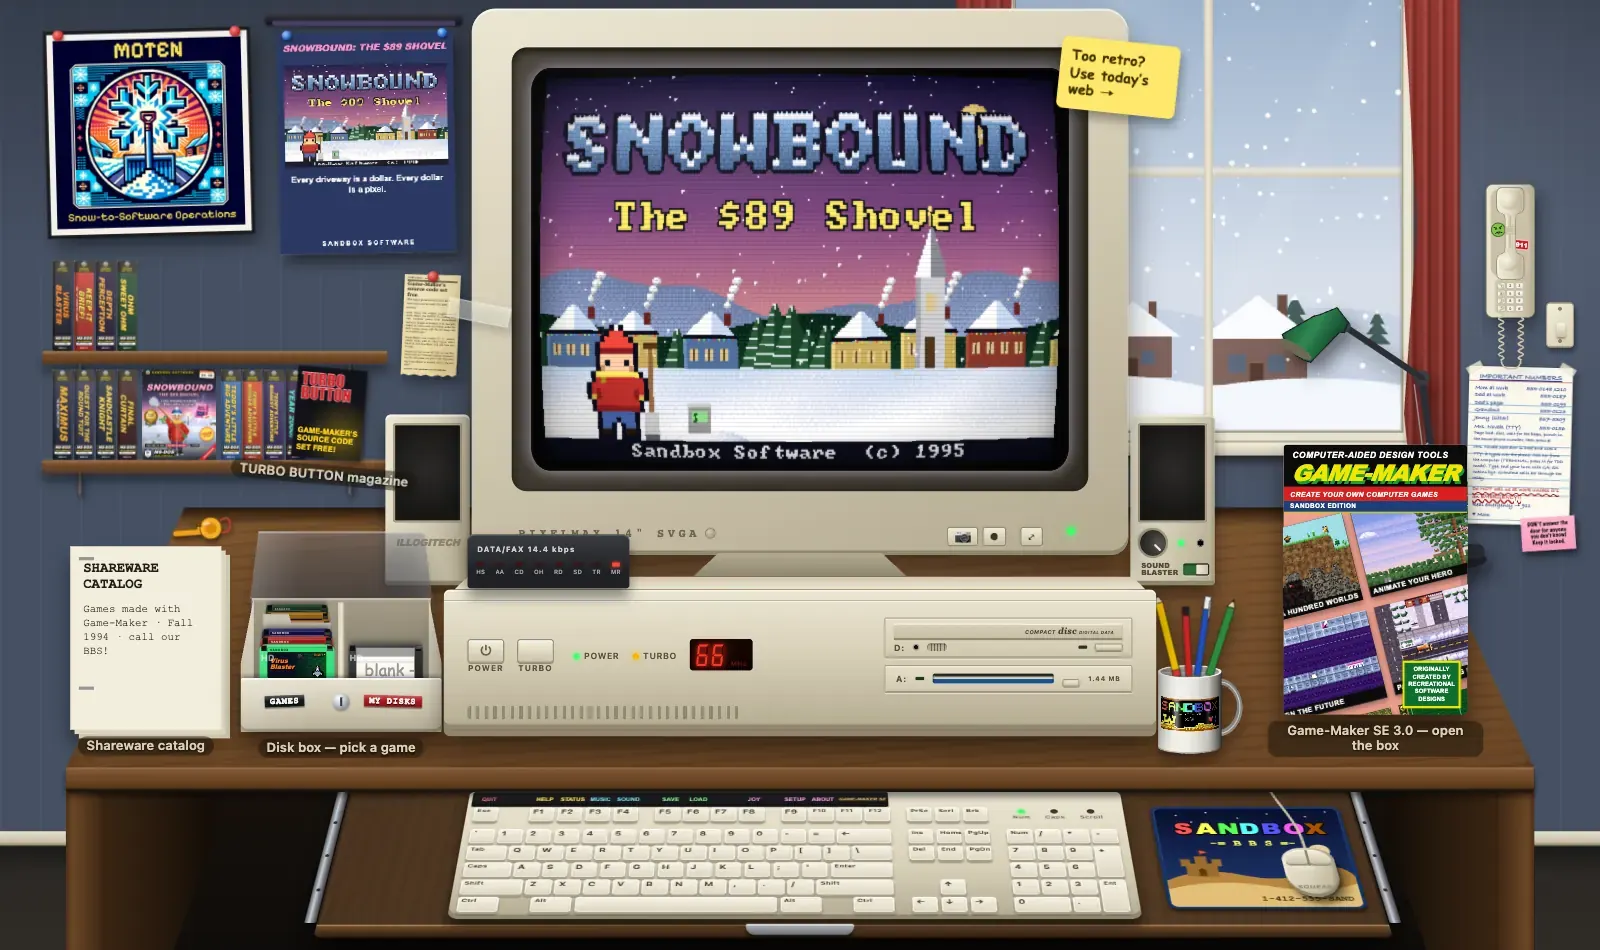
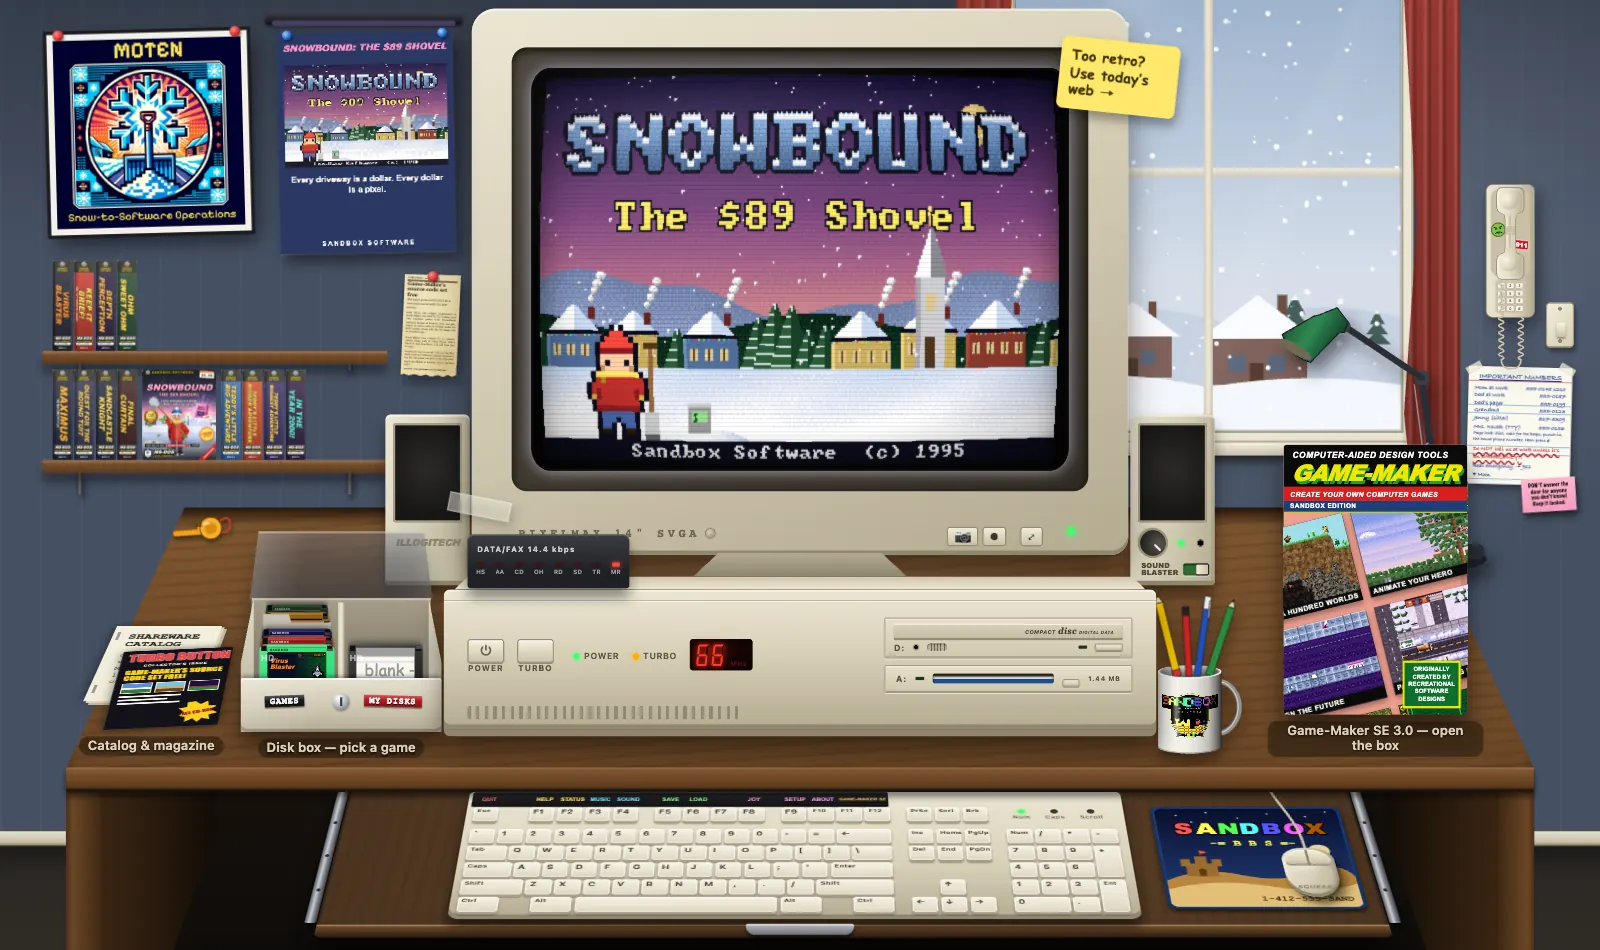
TURBO BUTTON: the desk snapshot retaken with the catalog-and-magazine stack on the desk and the Illogitech speakers; the desk ad gets a callout for the stack, and the shelf's and the web edition's words no longer put the magazine on the shelf

diff --git a/web/src/manual/magazine/sections/houseAd.ts b/web/src/manual/magazine/sections/houseAd.ts
@@ -39,7 +39,7 @@ const deskAd = (): MagPage =>
         [
           callouts(
             'desk',
-            'The 1994 desk: a beige PC with Snowbound’s title screen on the monitor, posters on the wall, a shelf of game boxes, a disk box, a modem, a snowy window, a wall phone and the Game-Maker box, each with a numbered spot',
+            'The 1994 desk: a beige PC with Snowbound’s title screen on the monitor, posters on the wall, a shelf of game boxes, the shareware catalog and this magazine stacked on the desk, a disk box, a modem, a snowy window, a wall phone and the Game-Maker box, each with a numbered spot',
             [
               {
                 x: 22.5,
@@ -51,7 +51,7 @@ const deskAd = (): MagPage =>
                 x: 9,
                 y: 43,
                 title: 'The shelf of boxes',
-                text: 'Every Sandbox game boxed, with its manual, maps, hint book and stickers. This magazine is up there too.',
+                text: 'Every Sandbox game boxed, with its manual, maps, hint book and stickers.',
               },
               {
                 x: 80,
@@ -64,6 +64,12 @@ const deskAd = (): MagPage =>
                 y: 22,
                 title: 'The phone',
                 text: 'Lift the handset and dial. Mom’s numbers are taped beside it, and time and temperature always answers.',
+              },
+              {
+                x: 9,
+                y: 73,
+                title: 'The catalog & the magazine',
+                text: 'This magazine lies on the desk with the shareware catalog. Pick either one to read.',
               },
               {
                 x: 35,

diff --git a/web/src/manual/magazine/sections/webEdition.ts b/web/src/manual/magazine/sections/webEdition.ts
@@ -67,7 +67,7 @@ export const WEB_EDITION: MagSection = {
         }),
         art(
           'desk',
-          'The 1994 desk in a browser: a beige PC with Snowbound’s title screen on the monitor, shelves of game boxes and the TURBO BUTTON magazine, a disk box, speakers, a modem, the Game-Maker box, a keyboard and mouse pad, and a snowy window',
+          'The 1994 desk in a browser: a beige PC with Snowbound’s title screen on the monitor, shelves of game boxes, and the TURBO BUTTON magazine and shareware catalog on the desk, a disk box, speakers, a modem, the Game-Maker box, a keyboard and mouse pad, and a snowy window',
           'The 1994 desk, in a browser tab: switch on the PC, pick a disk from the box, dial a BBS on the modem, or open a box on the shelf.',
         ),
         cols(2, [
